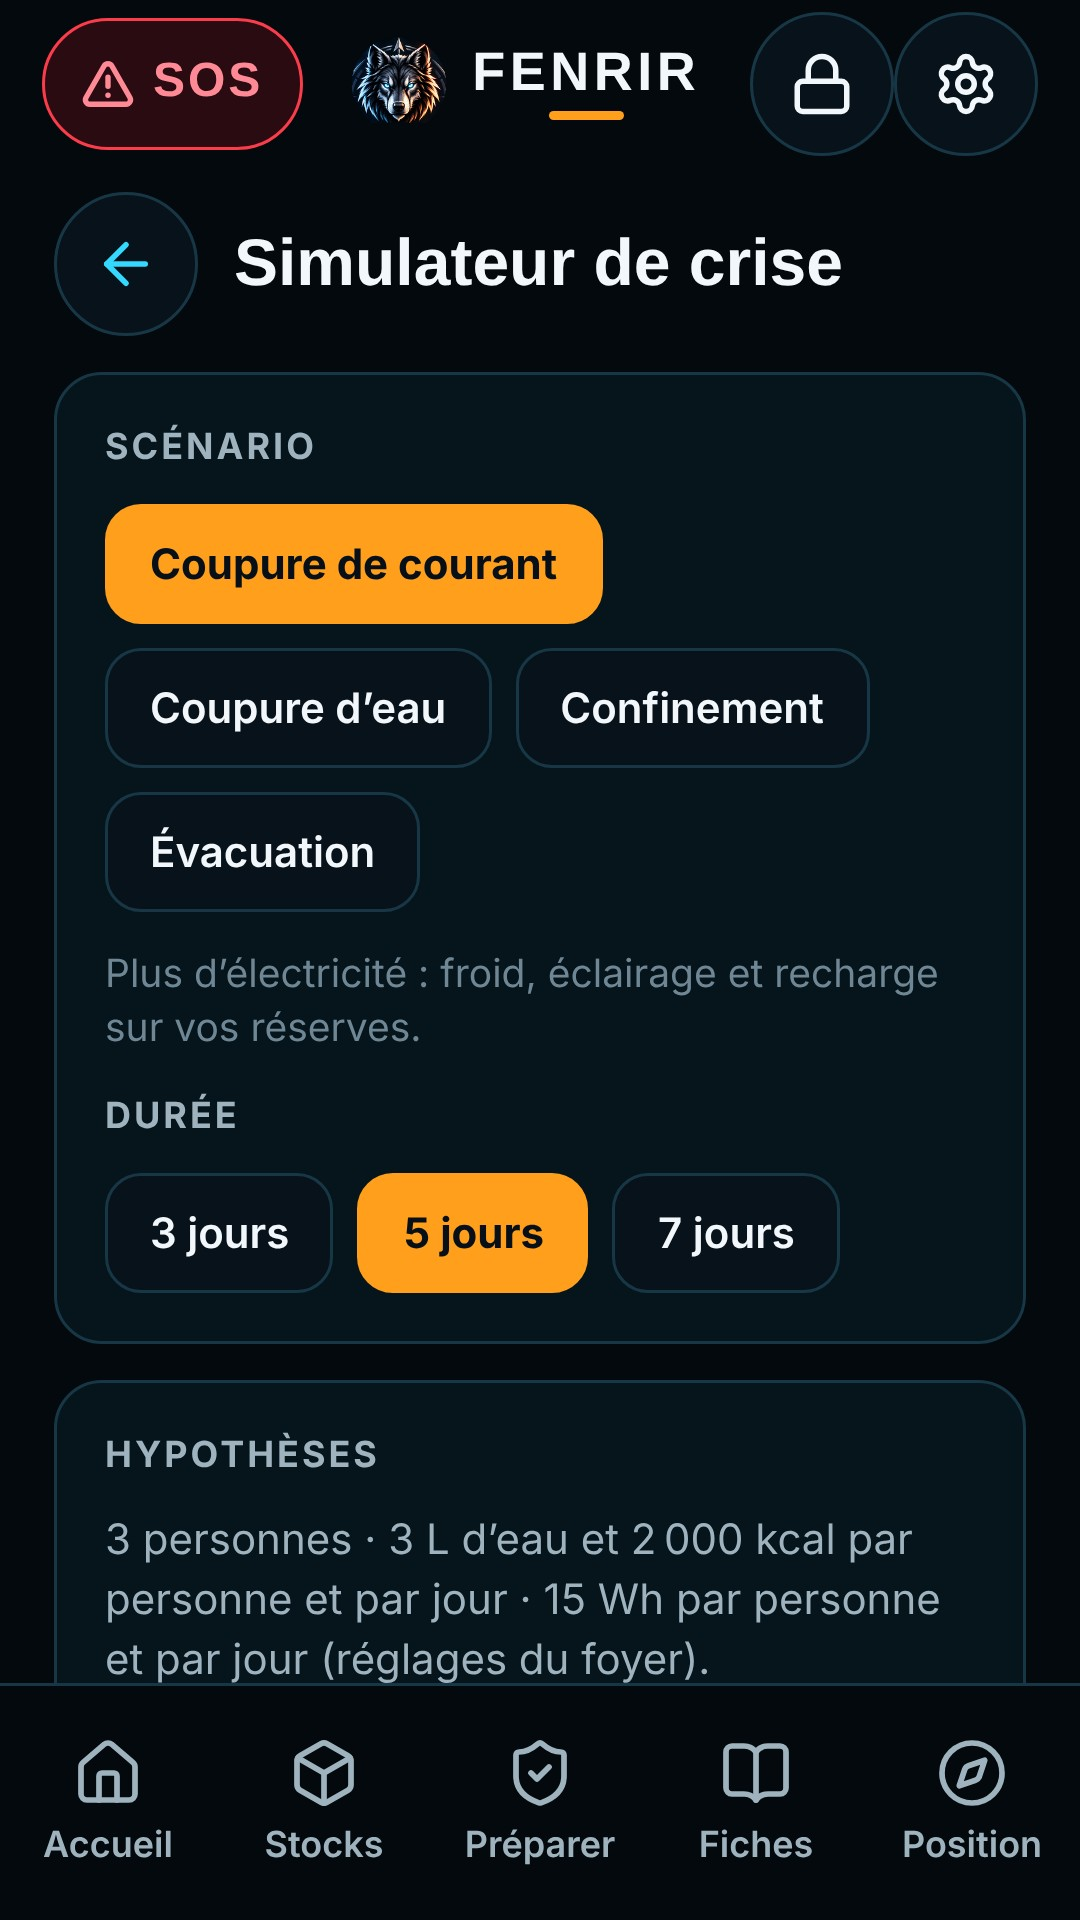
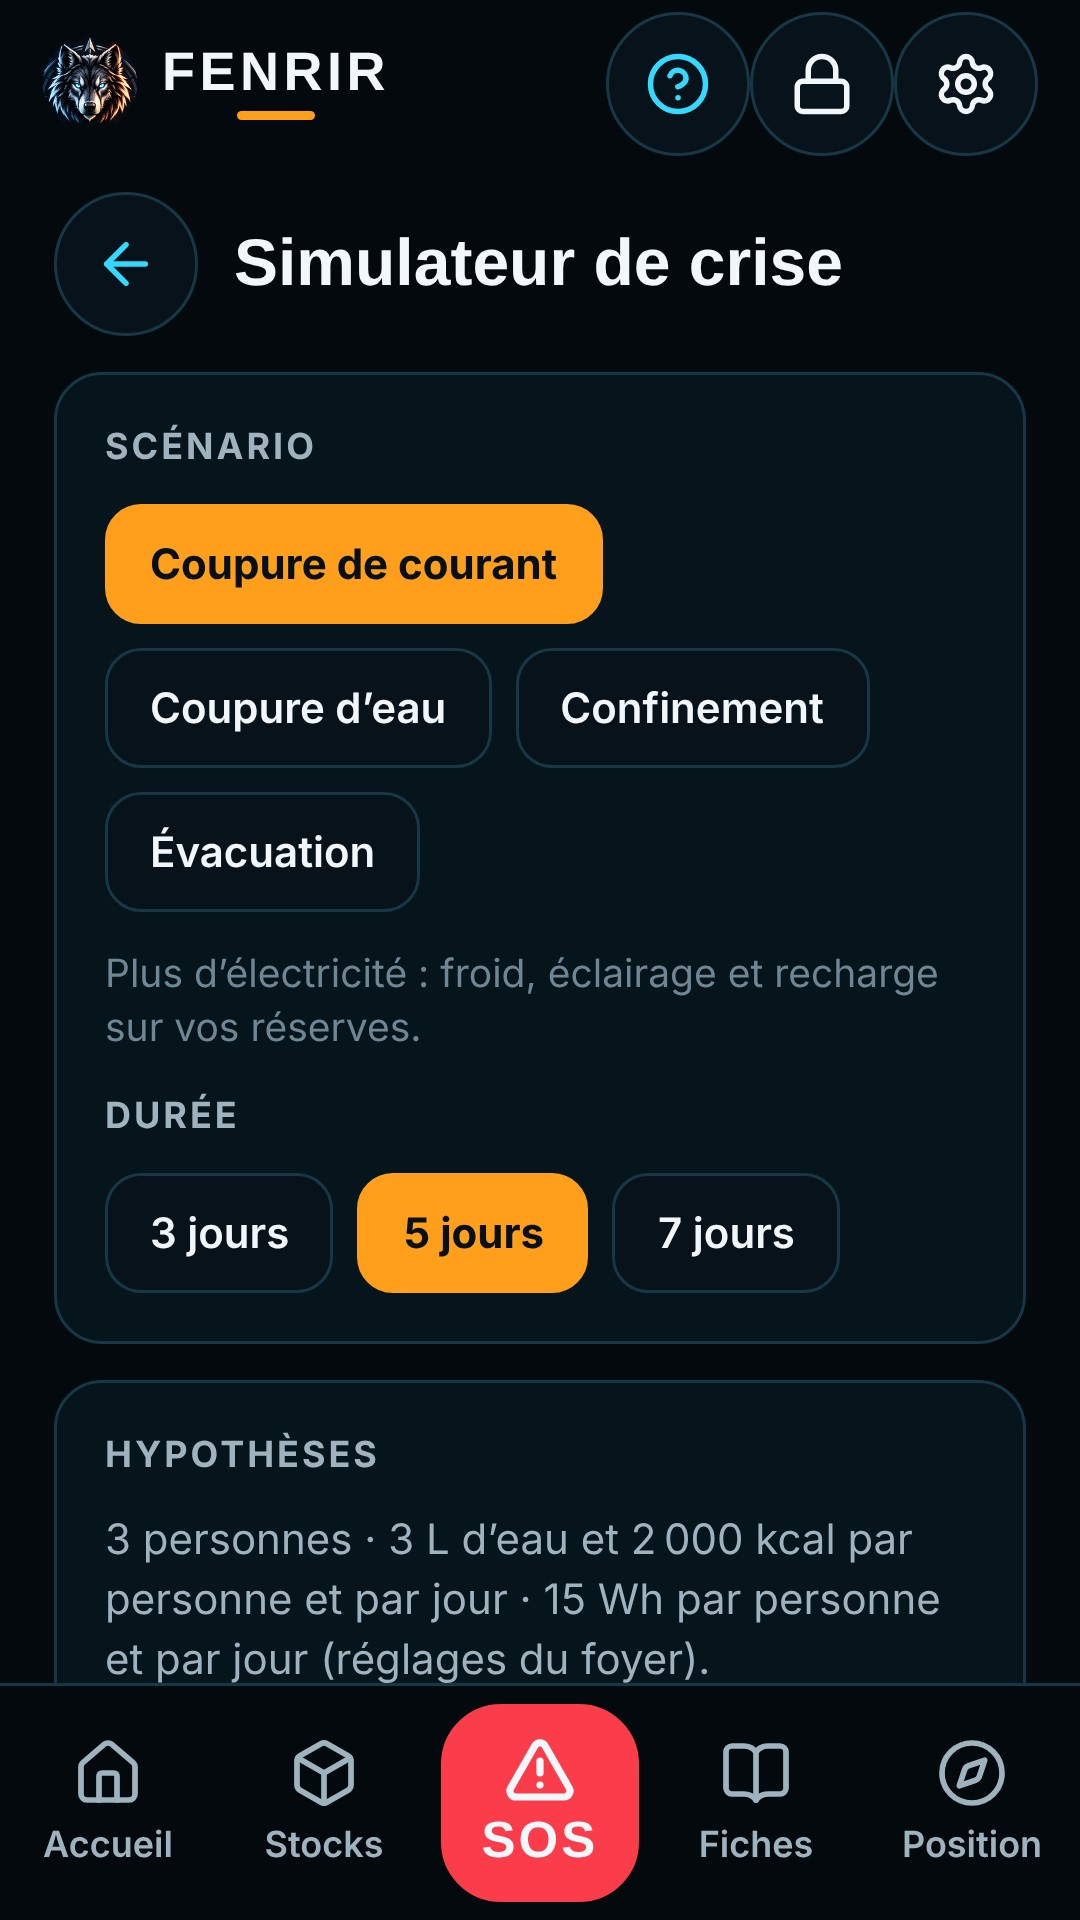
Fiche Google Play : nouvelles captures et description à jour
Les 7 captures de la fiche sont reprises sur la version actuelle de
l'application. La description mentionne l'hygiène, l'eau comptée en
bidons, l'écran Urgence ouvert sans code et les bulles d'aide.

Claude-Session: https://claude.ai/code/session_01CNyYGooYf2ZMZzFhiH2otM

Changed region(s): [[0.0306, 0.0, 0.7028, 0.0938], [0.3972, 0.875, 0.6111, 1.0]]

diff --git a/docs/google-play-fiche.md b/docs/google-play-fiche.md
@@ -17,7 +17,8 @@ Textes prêts à coller. Langue principale : français (France).
 > Fenrir tient l'inventaire de vos réserves d'urgence et vous dit, chiffres à l'appui, combien de jours votre foyer peut tenir. Tout fonctionne sans réseau et reste chiffré sur votre téléphone : pas de compte, pas de serveur, pas de publicité.
 >
 > **VOS STOCKS, CLAIREMENT**
-> • Fiches adaptées à chaque catégorie : eau, nourriture, santé et médicaments, énergie et éclairage, matériel, documents.
+> • Fiches adaptées à chaque catégorie : eau, nourriture, santé et médicaments, hygiène, énergie et éclairage, matériel, documents.
+> • Eau comptée en bidons : contenants pleins et entamés, retrait d'un geste, « Annuler » en cas d'erreur.
 > • Dates de péremption, lots et quantités, historique des mouvements.
 > • Scanner de codes-barres et des carrés Data Matrix des boîtes de médicaments (reconnus sans réseau).
 > • Scanner de documents : pages nettes et redressées, jusqu'à 30 par document, gardées dans le coffre chiffré.
@@ -32,11 +33,12 @@ Textes prêts à coller. Langue principale : français (France).
 > • Rappels de péremption au texte neutre.
 >
 > **QUAND IL FAUT AGIR**
-> • Écran Urgence : position GPS, envoi de votre position par SMS, numéros utiles.
+> • Écran Urgence, ouvert sans code depuis l'écran de verrouillage : position GPS, envoi de votre position par SMS, numéros utiles.
 > • Plan familial : contacts, points de regroupement, itinéraires, plan de communication.
 > • Cartes hors ligne (IGN), boussole et points de repère.
 > • Guide pratique hors ligne en 10 familles : eau, alimentation, santé, énergie, habitat, évacuation, gestion de crise…
 > • Mode lumière rouge pour préserver la vision de nuit.
+> • Bulles d'aide à la première ouverture de chaque écran.
 > • Alertes facultatives : vigilance météo, rappels de produits, ruptures de médicaments, séismes, restrictions d'eau, signal gaz, carburants.
 >
 > **VIE PRIVÉE ET SÉCURITÉ**
